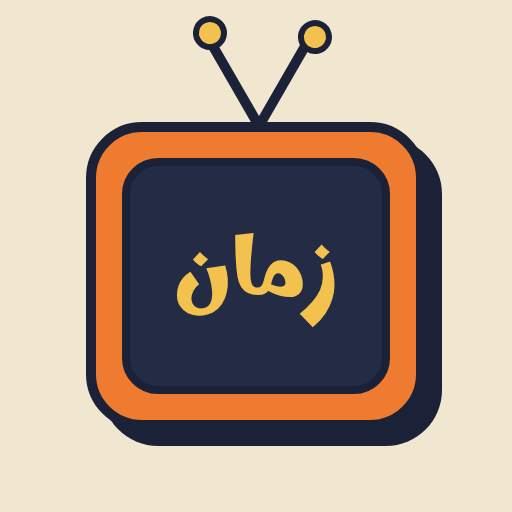
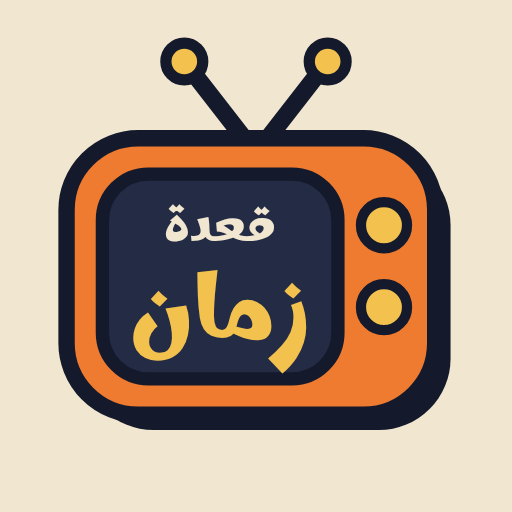
أيقونة جديدة: تلفزيون زمان مع «قعدة زمان»
Claude-Session: https://claude.ai/code/session_01JVnW6MZi4ziWwCX7oQ62EQ

Changed region(s): [[0.0938, 0.0312, 0.9062, 0.875]]

diff --git a/public/sw.js b/public/sw.js
@@ -1,5 +1,5 @@
 // قعدة زمان — service worker
-const V = 'zaman-v1';
+const V = 'zaman-v2';
 const CORE = ['/', '/style.css', '/app.js', '/games.js', '/manifest.webmanifest', '/icon-192.png', '/fonts/fonts.css', '/fonts/marhey-arabic-600-normal.woff2', '/fonts/ibm-plex-sans-arabic-arabic-400-normal.woff2', '/fonts/ibm-plex-sans-arabic-arabic-700-normal.woff2'];
 self.addEventListener('install', e => { e.waitUntil(caches.open(V).then(c => c.addAll(CORE)).then(() => self.skipWaiting())); });
 self.addEventListener('activate', e => { e.waitUntil(caches.keys().then(k => Promise.all(k.filter(x => x !== V).map(x => caches.delete(x)))).then(() => self.clients.claim())); });
